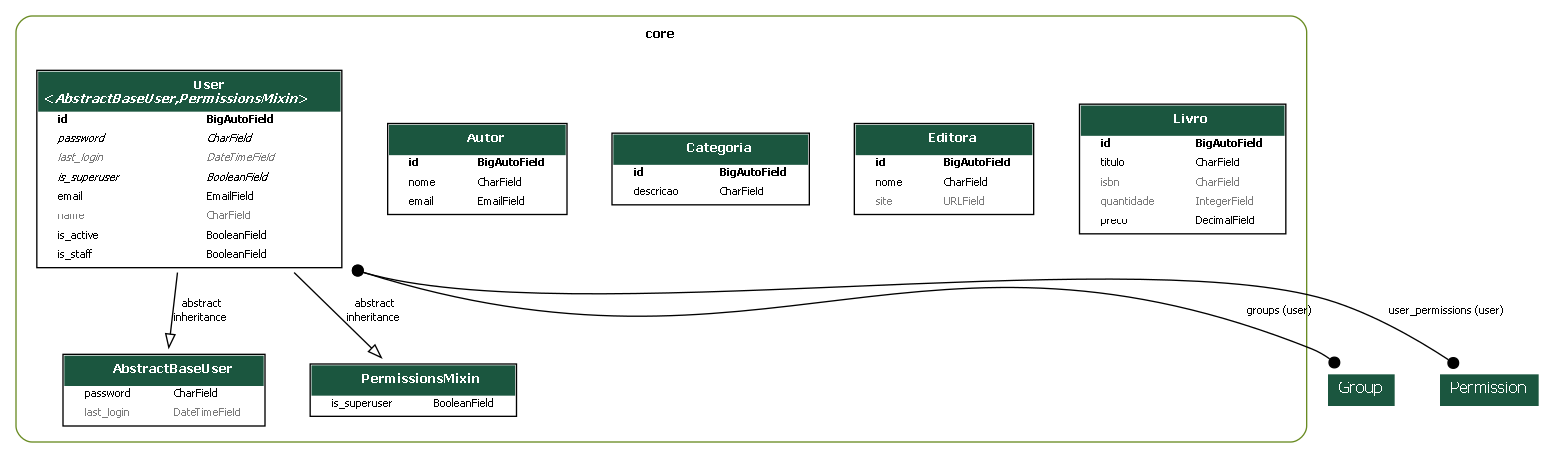
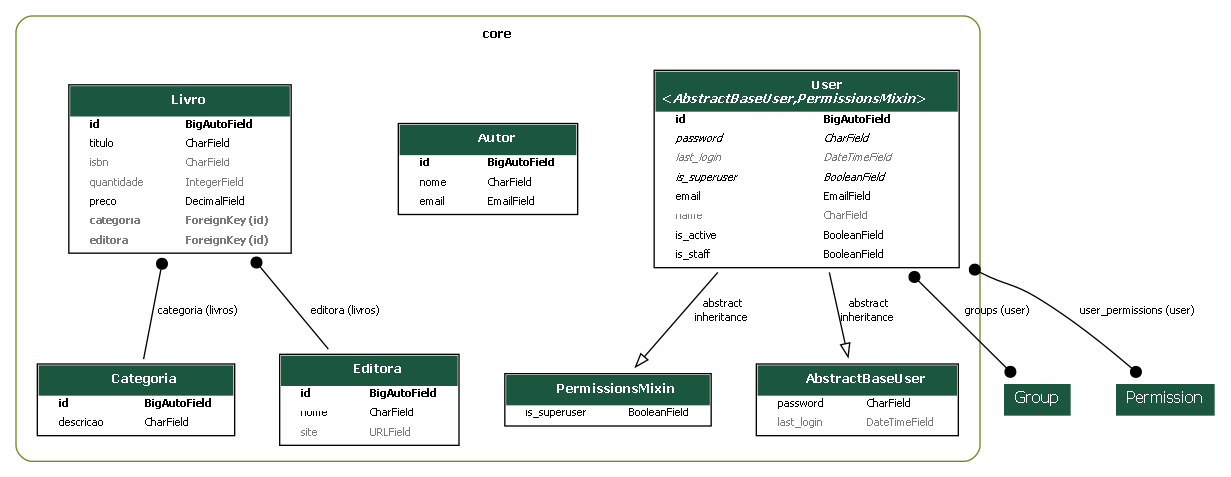
FEAT: Criado o relacionamento de categoria e editora com livro.

Changed region(s): [[0.0, 0.0306, 1.0, 0.9782], [0.3396, 0.6725, 0.4939, 0.7031]]

diff --git a/core/models/livro.py b/core/models/livro.py
@@ -1,10 +1,15 @@
 from django.db import models
+from .categoria import Categoria 
+from .editora import Editora
 
 class Livro(models.Model):
     titulo = models.CharField(max_length=200)
     isbn = models.CharField(max_length=20, null=True, blank=True)
     quantidade = models.IntegerField(default=0, null=True, blank=True)
     preco = models.DecimalField(max_digits=10, decimal_places=2, default=0)
+    categoria = models.ForeignKey(Categoria, on_delete=models.PROTECT, related_name='livros', null=True, blank=True)
+    editora = models.ForeignKey(Editora, on_delete=models.PROTECT, related_name='livros', null=True, blank=True)
 
     def __str__(self):
         return f'({self.id}) - {self.titulo} - ({self.quantidade})'
+    

diff --git a/core/migrations/0007_livro_categoria.py b/core/migrations/0007_livro_categoria.py
@@ -1,0 +1,19 @@
+# Generated by Django 5.2.12 on 2026-03-17 17:33
+
+import django.db.models.deletion
+from django.db import migrations, models
+
+
+class Migration(migrations.Migration):
+
+    dependencies = [
+        ('core', '0006_autor_categoria_editora_livro'),
+    ]
+
+    operations = [
+        migrations.AddField(
+            model_name='livro',
+            name='categoria',
+            field=models.ForeignKey(blank=True, null=True, on_delete=django.db.models.deletion.PROTECT, related_name='livros', to='core.categoria'),
+        ),
+    ]

diff --git a/core/migrations/0008_livro_editora.py b/core/migrations/0008_livro_editora.py
@@ -1,0 +1,19 @@
+# Generated by Django 5.2.12 on 2026-03-17 17:42
+
+import django.db.models.deletion
+from django.db import migrations, models
+
+
+class Migration(migrations.Migration):
+
+    dependencies = [
+        ('core', '0007_livro_categoria'),
+    ]
+
+    operations = [
+        migrations.AddField(
+            model_name='livro',
+            name='editora',
+            field=models.ForeignKey(blank=True, null=True, on_delete=django.db.models.deletion.PROTECT, related_name='livros', to='core.editora'),
+        ),
+    ]
